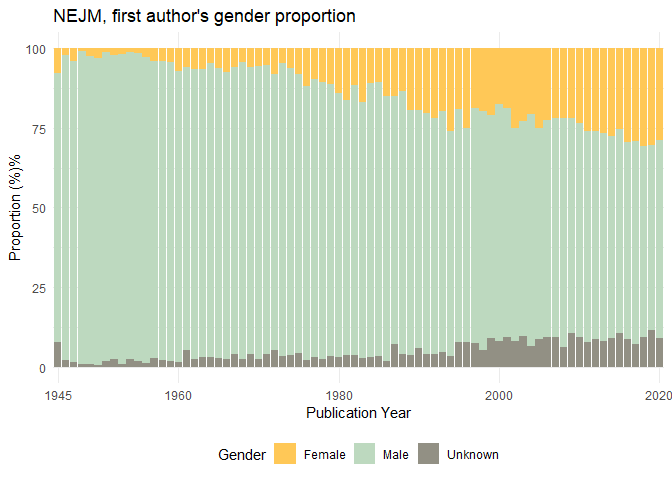
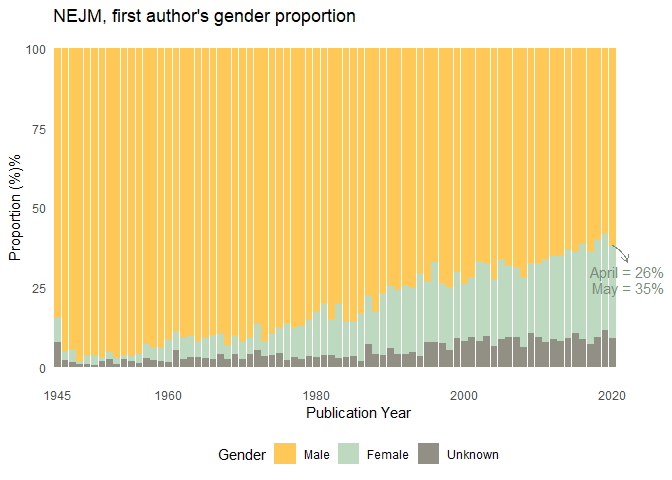
updated plots

diff --git a/README.md b/README.md
@@ -518,7 +518,8 @@ data_filtered <- data_filtered %>%
     gender = str_to_title(gender)) %>% 
   group_by(DOI) %>% 
   mutate(total_authors = last(author_position)) %>% 
-  ungroup()
+  ungroup() %>% 
+  mutate(gender = fct_relevel(gender, c("Male", "Female", "Unknown")))
 ```
 
 ## Gender proportion over time
@@ -539,7 +540,8 @@ count_gender %>%
      y = "Proportion (%)%",
      fill = "Gender") +
   scale_x_discrete(breaks = c("1945", "1960", "1980", "2000", "2020")) +
-    theme(legend.position = "bottom")
+    theme(legend.position = "bottom")+ 
+  theme(panel.grid = element_blank())
 ```
 
 ![](README_files/figure-gfm/unnamed-chunk-7-1.png)<!-- -->
@@ -566,7 +568,13 @@ count_gender_first %>%
     fill = "Gender") +
     scale_x_discrete(
     breaks=c("1945", "1960", "1980", "2000", "2020")) +
-    theme(legend.position = "bottom")
+    theme(legend.position = "bottom",
+          panel.grid = element_blank()) +
+ annotate(
+    geom = "curve", x = 76, y = 38.1, xend = 78, yend = 33, 
+    curvature = -0.2, arrow = arrow(length = unit(2, "mm")), color = "#7A8C7A", size = 0.7) +
+  annotate(geom = "text", x = 83, y = 30, label = "April = 26%", hjust = "right", color = "#7A8C7A", size = 4) +
+  annotate(geom = "text", x = 83, y = 25, label = "May = 35%", hjust = "right", color = "#7A8C7A")
 ```
 
 ![](README_files/figure-gfm/unnamed-chunk-8-1.png)<!-- -->
@@ -593,7 +601,8 @@ count_single %>%
     scale_x_discrete(
     breaks=c("1945", "1960", "1980", "2000", "2020")
   ) +
-    theme(legend.position = "bottom")
+    theme(legend.position = "bottom",
+          panel.grid = element_blank())
 ```
 
 ![](README_files/figure-gfm/unnamed-chunk-9-1.png)<!-- -->
@@ -621,7 +630,8 @@ count_last %>%
     scale_x_discrete(
     breaks=c("1945", "1960", "1980", "2000", "2020")
   ) +
-    theme(legend.position = "bottom")
+    theme(legend.position = "bottom",
+          panel.grid = element_blank())
 ```
 
 ![](README_files/figure-gfm/unnamed-chunk-10-1.png)<!-- -->
